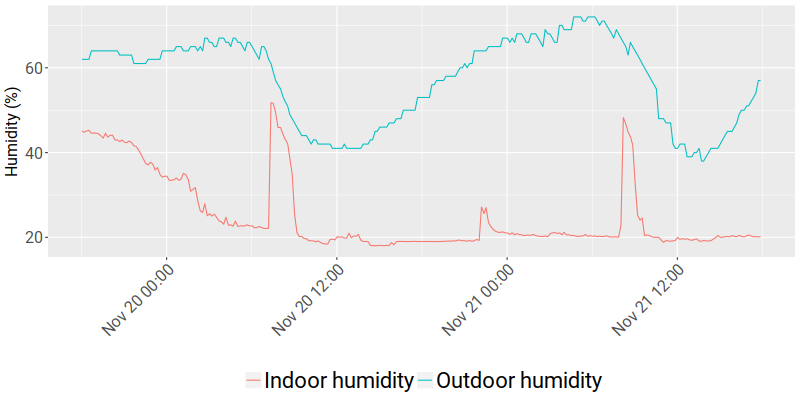
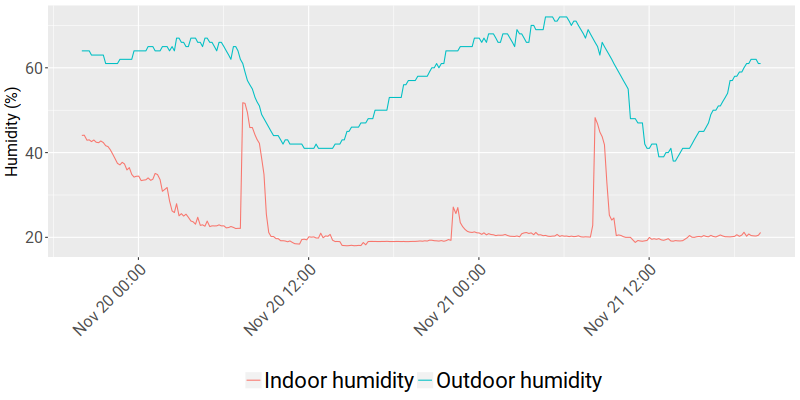
Update live temperature on site

diff --git a/temperature.js b/temperature.js
@@ -1,1 +1,1 @@
-document.write("<h4>Inside Temperature: 21.0°C</h4><h4>Outside Temperature: 11.02°C</h4><h4>Fermenter 1 Temperature: 85.0°C</h4><h4>Fermenter 2 Temperature: 21.13°C</h4><h4>Inside Humidity: 20.17%</h4><h4>Outside Humidity: 57.0%</h4><br>Last update: 2017-11-21 17:51:58");
+document.write("<h4>Inside Temperature: 21.0°C</h4><h4>Outside Temperature: 10.41°C</h4><h4>Fermenter 1 Temperature: 85.0°C</h4><h4>Fermenter 2 Temperature: 21.19°C</h4><h4>Inside Humidity: 21.15%</h4><h4>Outside Humidity: 61.0%</h4><br>Last update: 2017-11-21 19:51:23");
